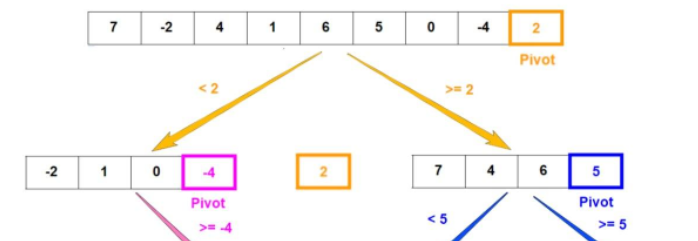
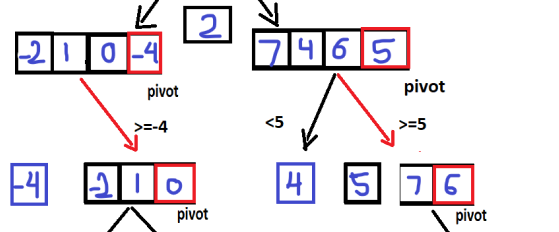
change blog

Changed region(s): [[0.0, 0.0, 0.9123, 1.0], [0.1825, 0.4526, 0.2129, 0.5431], [0.1521, 0.3621, 0.1825, 0.4526]]

diff --git a/javascript/code-challenges/sorting/Quick_Sort/blog.md b/javascript/code-challenges/sorting/Quick_Sort/blog.md
@@ -43,28 +43,29 @@ ALGORITHM Swap(arr, i, low)
 
 1. input sample array
 
-2. Select an element of the array. This element is generally called the pivot. Most often this element is either the first or the last element in the array.
+2. I want to select an element and compare all elements with it called that pivot
 
-![sample array](./images/1.PNG)
+![sample array](./images/pivot.PNG)
 
-3. Then, rearrange the elements of the array so that all the elements to the left of the pivot are smaller than the pivot and all the elements to the right are greater than the pivot. The step is called partitioning. If an element is equal to the pivot, it doesn't matter on which side it goes.
-
+3. I assign a pivot to sort  all the elements that smallest him and put them on the left, and  sort all the elements biggest him and put them on right and put the pivot on middle. 
 ![partitioning](./images/2.PNG)
 
-4. Repeat this process individually for the left and right sides of the pivot, until the array is sorted.
+4. in the all partition repeat that process and assign a new pivot continuous that to make all array sort.
 
 ![partitioning_2](./images/3.PNG)
 
 ![partitioning_3](./images/4.PNG)
 
-5. Finally, it will be done sort 
+5. Finally, it will be done sort.
 
 ![partitioning_3](./images/5.PNG)
+
 ## Efficency
 
 - Time complexity of O(nLogn).
 
-- space complexity O(1) .
+- space complexity O(1).
+
 ----
 
 |name|link|
